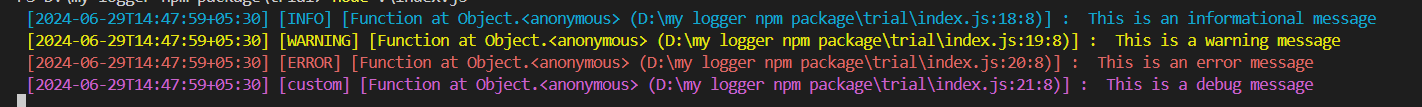
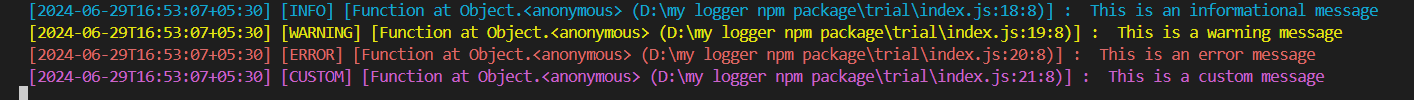
Version 1.0.2 : - removed requirment of smaller case label now we use name as we want - changed printCallerFunctionName to printLabelName instead

diff --git a/dist/logger.js b/dist/logger.js
@@ -1,1 +1,1 @@
-"use strict";var __createBinding=this&&this.__createBinding||(Object.create?function(o,m,k,k2){if(k2===undefined)k2=k;var desc=Object.getOwnPropertyDescriptor(m,k);if(!desc||("get"in desc?!m.__esModule:desc.writable||desc.configurable)){desc={enumerable:true,get:function(){return m[k]}}}Object.defineProperty(o,k2,desc)}:function(o,m,k,k2){if(k2===undefined)k2=k;o[k2]=m[k]});var __setModuleDefault=this&&this.__setModuleDefault||(Object.create?function(o,v){Object.defineProperty(o,"default",{enumerable:true,value:v})}:function(o,v){o["default"]=v});var __importStar=this&&this.__importStar||function(mod){if(mod&&mod.__esModule)return mod;var result={};if(mod!=null)for(var k in mod)if(k!=="default"&&Object.prototype.hasOwnProperty.call(mod,k))__createBinding(result,mod,k);__setModuleDefault(result,mod);return result};var __importDefault=this&&this.__importDefault||function(mod){return mod&&mod.__esModule?mod:{default:mod}};Object.defineProperty(exports,"__esModule",{value:true});const moment_1=__importDefault(require("moment"));const fs=__importStar(require("fs"));const path=__importStar(require("path"));const colors_1=require("./constants/colors");class NodeLogger{constructor(options){this.logRotationInterval=24*60*60*1e3;this.MAPPED_LABEL={ERROR:colors_1.Color.RED,WARNING:colors_1.Color.YELLOW,INFO:colors_1.Color.CYAN,SUCCESS:colors_1.Color.GREEN,LOG:colors_1.Color.WHITE,NOTIFY:colors_1.Color.BLUE,ALERT:colors_1.Color.YELLOWBG,CRITICAL:colors_1.Color.REDBG};this.logger=this.createMappedLoggerFunction();if(!options){options={}}this.options=options;this.checkOptions(options)}checkOptions(options){if(options.saveLogFile){this.setLogDirectoryAndFile(options);if(!fs.existsSync(this.logDirectory)){fs.mkdirSync(this.logDirectory,{recursive:true})}this.createLogStream(options)}if(options.customLabels){this.updateCustomLabels(options.customLabels);this.createMappedLoggerFunction()}}setLogDirectoryAndFile(options){this.logDirectory=options.logFolderPath?path.resolve(process.cwd(),options.logFolderPath):path.join(process.cwd(),"logs");const filename=options.logFileName||(0,moment_1.default)().format("DD-MM-YYYY")+".log";this.logFile=path.join(this.logDirectory,filename)}updateCustomLabels(customLabels){customLabels.forEach(label=>{this.MAPPED_LABEL[label.label]=label.color})}createMappedLoggerFunction(){Object.keys(this.MAPPED_LABEL).forEach(key=>{if(!this.logger)this.logger={};this.logger[key.toLowerCase()]=message=>this.log(key,message)});return Object.assign(this.logger)}getCallerName(){var _a,_b;const error=new Error;const stackLines=((_a=error.stack)===null||_a===void 0?void 0:_a.split("\n"))||[];const callerLine=(_b=stackLines[4])===null||_b===void 0?void 0:_b.trim();if(!callerLine)return"Unknown";const matches=callerLine.match(/at\s+(.*?)\s+\(/);if(matches&&matches.length>=2){return`${callerLine}`}return"Unknown"}log(label,message){let formattedMessage="";if(this.options.printTimestamp)formattedMessage+=`[${(0,moment_1.default)().format()}] `;if(this.options.printCallerFunctionName)formattedMessage+=`[${label}] `;if(this.options.printCallerFunctionLocation)formattedMessage+=`[Function ${this.getCallerName()}] `;if(this.options.printTimestamp||this.options.printCallerFunctionLocation||this.options.printCallerFunctionName)formattedMessage+=`: `;console.log(this.MAPPED_LABEL[label],formattedMessage,message,colors_1.Color.RESET);if(this.options.saveLogFile){if(typeof message==="object"){try{message=JSON.stringify(message)}catch(e){console.error(e.message);message="Error: Unable to stringify object"}}formattedMessage=`${formattedMessage} ${message}\n`;this.logStream.write(formattedMessage)}}createLogStream(options){this.logStream=fs.createWriteStream(this.logFile,{flags:"a"});setInterval(()=>{if(this.logStream.bytesWritten>(options.logRotationInterval||this.logRotationInterval)){this.rotateLogFile()}},options.logRotationInterval||this.logRotationInterval)}createLogFile(){return fs.createWriteStream(this.logFile,{flags:"a"})}rotateLogFile(){this.logStream.end();fs.unlink(this.logFile,err=>{if(err){console.error(colors_1.Color.RED,"Error deleting log file:",err)}else{this.logStream=this.createLogFile();console.log(colors_1.Color.GREEN,"Log file rotated successfully.")}})}}exports.default=NodeLogger;
+"use strict";var __createBinding=this&&this.__createBinding||(Object.create?function(o,m,k,k2){if(k2===undefined)k2=k;var desc=Object.getOwnPropertyDescriptor(m,k);if(!desc||("get"in desc?!m.__esModule:desc.writable||desc.configurable)){desc={enumerable:true,get:function(){return m[k]}}}Object.defineProperty(o,k2,desc)}:function(o,m,k,k2){if(k2===undefined)k2=k;o[k2]=m[k]});var __setModuleDefault=this&&this.__setModuleDefault||(Object.create?function(o,v){Object.defineProperty(o,"default",{enumerable:true,value:v})}:function(o,v){o["default"]=v});var __importStar=this&&this.__importStar||function(mod){if(mod&&mod.__esModule)return mod;var result={};if(mod!=null)for(var k in mod)if(k!=="default"&&Object.prototype.hasOwnProperty.call(mod,k))__createBinding(result,mod,k);__setModuleDefault(result,mod);return result};var __importDefault=this&&this.__importDefault||function(mod){return mod&&mod.__esModule?mod:{default:mod}};Object.defineProperty(exports,"__esModule",{value:true});const moment_1=__importDefault(require("moment"));const fs=__importStar(require("fs"));const path=__importStar(require("path"));const colors_1=require("./constants/colors");class NodeLogger{constructor(options){this.logRotationInterval=24*60*60*1e3;this.MAPPED_LABEL={error:colors_1.Color.RED,warning:colors_1.Color.YELLOW,info:colors_1.Color.CYAN,success:colors_1.Color.GREEN,log:colors_1.Color.WHITE,notify:colors_1.Color.BLUE,alert:colors_1.Color.YELLOWBG,critical:colors_1.Color.REDBG};this.logger=this.createMappedLoggerFunction();if(!options){options={}}this.options=options;this.checkOptions(options)}checkOptions(options){if(options.saveLogFile){this.setLogDirectoryAndFile(options);if(!fs.existsSync(this.logDirectory)){fs.mkdirSync(this.logDirectory,{recursive:true})}this.createLogStream(options)}if(options.customLabels&&options.customLabels.length){this.updateCustomLabels(options.customLabels);this.createMappedLoggerFunction()}}setLogDirectoryAndFile(options){this.logDirectory=options.logFolderPath?path.resolve(process.cwd(),options.logFolderPath):path.join(process.cwd(),"logs");const filename=options.logFileName||(0,moment_1.default)().format("DD-MM-YYYY")+".log";this.logFile=path.join(this.logDirectory,filename)}updateCustomLabels(customLabels){customLabels.forEach(label=>{if(!label.label||!label.color)return;this.MAPPED_LABEL[label.label]=label.color})}createMappedLoggerFunction(){Object.keys(this.MAPPED_LABEL).forEach(key=>{if(!this.logger)this.logger={};this.logger[key]=message=>this.log(key,message)});return Object.assign(this.logger)}getCallerName(){var _a,_b;const error=new Error;const stackLines=((_a=error.stack)===null||_a===void 0?void 0:_a.split("\n"))||[];const callerLine=(_b=stackLines[4])===null||_b===void 0?void 0:_b.trim();if(!callerLine)return"Unknown";const matches=callerLine.match(/at\s+(.*?)\s+\(/);if(matches&&matches.length>=2){return`${callerLine}`}return"Unknown"}log(label,message){let formattedMessage="";if(this.options.printTimestamp)formattedMessage+=`[${(0,moment_1.default)().format()}] `;if(this.options.printLabelName)formattedMessage+=`[${label.toUpperCase()}] `;if(this.options.printCallerFunctionLocation)formattedMessage+=`[Function ${this.getCallerName()}] `;if(this.options.printTimestamp||this.options.printCallerFunctionLocation||this.options.printLabelName)formattedMessage+=`: `;console.log(this.MAPPED_LABEL[label],formattedMessage,message,colors_1.Color.RESET);if(this.options.saveLogFile){if(typeof message==="object"){try{message=JSON.stringify(message)}catch(e){console.error(e.message);message="Error: Unable to stringify object"}}formattedMessage=`${formattedMessage} ${message}\n`;this.logStream.write(formattedMessage)}}createLogStream(options){this.logStream=fs.createWriteStream(this.logFile,{flags:"a"});setInterval(()=>{if(this.logStream.bytesWritten>(options.logRotationInterval||this.logRotationInterval)){this.rotateLogFile()}},options.logRotationInterval||this.logRotationInterval)}createLogFile(){return fs.createWriteStream(this.logFile,{flags:"a"})}rotateLogFile(){this.logStream.end();fs.unlink(this.logFile,err=>{if(err){console.error(colors_1.Color.RED,"Error deleting log file:",err)}else{this.logStream=this.createLogFile();console.log(colors_1.Color.GREEN,"Log file rotated successfully.")}})}}exports.default=NodeLogger;

diff --git a/dist/interfaces/interface.d.ts b/dist/interfaces/interface.d.ts
@@ -7,35 +7,35 @@ export interface MAPPED_LABEL {
     /**
      * Label for error messages.
      */
-    ERROR: string;
+    error: string;
     /**
      * Label for warning messages.
      */
-    WARNING: string;
+    warning: string;
     /**
      * Label for informational messages.
      */
-    INFO: string;
+    info: string;
     /**
      * Label for success messages.
      */
-    SUCCESS: string;
+    success: string;
     /**
      * Label for general log messages.
      */
-    LOG: string;
+    log: string;
     /**
      * Label for notification messages.
      */
-    NOTIFY: string;
+    notify: string;
     /**
      * Label for alert messages.
      */
-    ALERT: string;
+    alert: string;
     /**
      * Label for critical messages.
      */
-    CRITICAL: string;
+    critical: string;
     /**
      * Additional custom labels.
      */
@@ -132,9 +132,9 @@ export interface LoggerOptions {
      */
     printTimestamp?: boolean;
     /**
-     * Whether to print the caller function name in each log entry.
+     * Whether to print the label name in each log entry.
      */
-    printCallerFunctionName?: boolean;
+    printLabelName?: boolean;
     /**
      * Whether to print the caller function location in each log entry.
      */

diff --git a/README.md b/README.md
@@ -24,11 +24,11 @@ const options: LoggerOptions = {
   logRotationInterval: 60000, // 1 minute
   saveLogFile: true,
   customLabels: [
-    //always give label name in smallcase format
+    // take ANSI color refrence from https://talyian.github.io/ansicolors/
     { color: Color.MAGNENTA, label: 'custom' },
   ],
   printTimestamp: true,
-  printCallerFunctionName: true,
+  printLabelName: true,
   printCallerFunctionLocation: true,
 };
 
